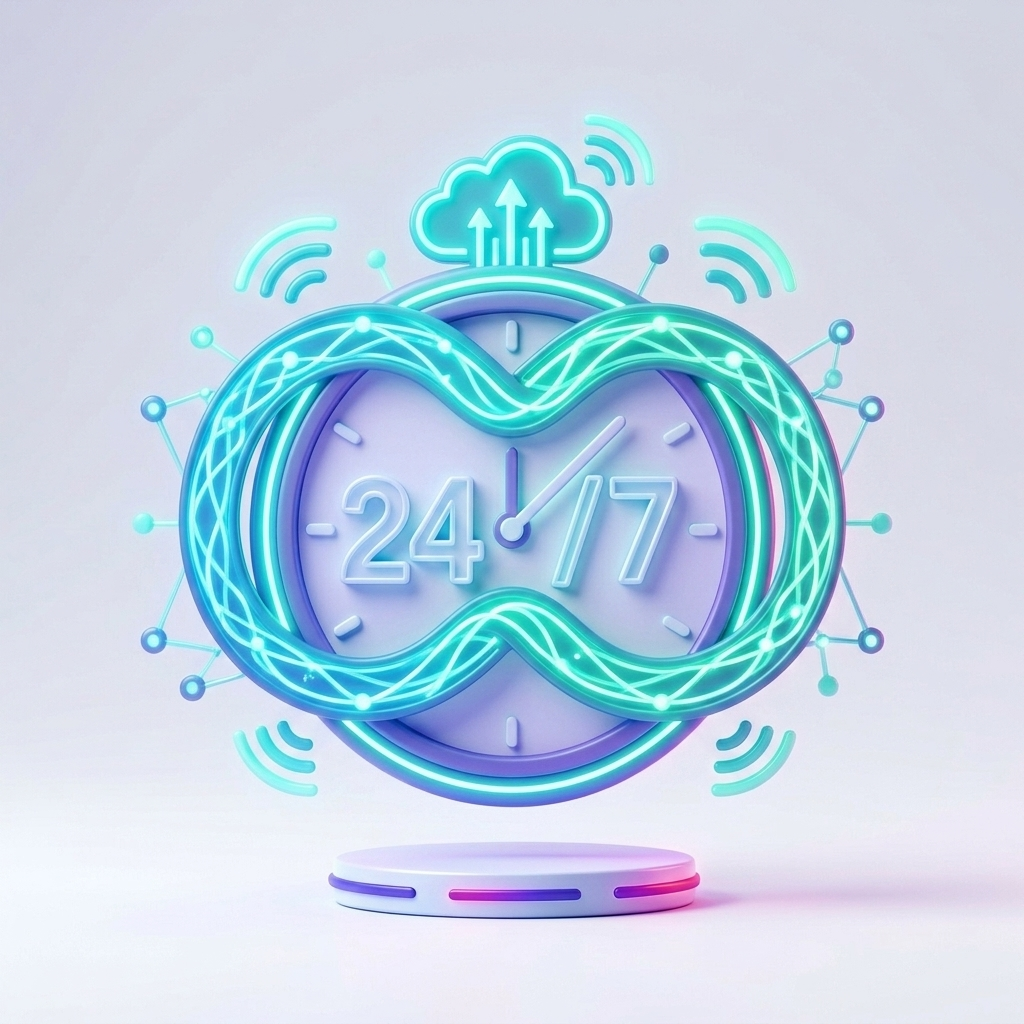
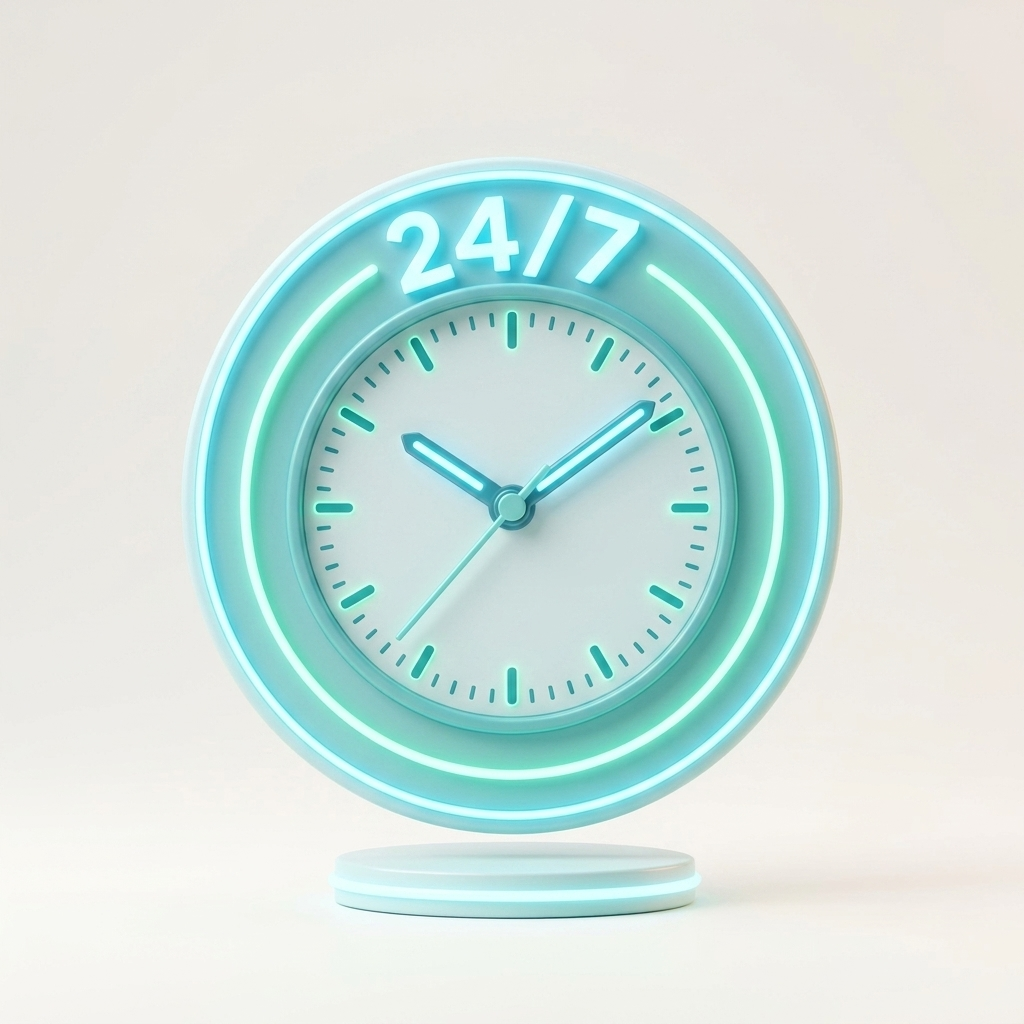
chore: removed unused images

diff --git a/src/components/sections/recharge-bills/WhyChooseCashlo.tsx b/src/components/sections/recharge-bills/WhyChooseCashlo.tsx
@@ -27,7 +27,7 @@ export default function WhyChooseCashlo() {
 
         {/* Tight Staggered Bento Grid */}
         <div className="mt-12 grid grid-cols-1 gap-5 md:grid-cols-3">
-          
+
           {/* Card 1: Secure & Trusted (Top Left - Spans 2 Columns) */}
           <div
             data-reveal
@@ -62,7 +62,7 @@ export default function WhyChooseCashlo() {
               <div className="relative min-h-[220px] w-full overflow-hidden rounded-2xl border border-border/80 bg-surface/60 p-1.5 shadow-inner md:col-span-5 md:min-h-[240px]">
                 <div className="relative h-full min-h-[210px] w-full overflow-hidden rounded-xl bg-card">
                   <Image
-                    src="/illustrations/recharge-bills/secure-trusted-v2.jpg"
+                    src="/illustrations/recharge-bills/secure-trusted.jpg"
                     alt="Secure & Trusted BBPS Transactions"
                     fill
                     sizes="(max-width: 768px) 100vw, 35vw"
@@ -104,7 +104,7 @@ export default function WhyChooseCashlo() {
             <div className="mt-4 relative h-52 w-full overflow-hidden rounded-2xl border border-border/80 bg-surface/60 p-1.5 shadow-inner md:h-56">
               <div className="relative h-full w-full overflow-hidden rounded-xl bg-card">
                 <Image
-                  src="/illustrations/recharge-bills/availability-247-v3.jpg"
+                  src="/illustrations/recharge-bills/availability-247.jpg"
                   alt="24x7 High Availability Clock"
                   fill
                   sizes="(max-width: 768px) 100vw, 30vw"
@@ -142,7 +142,7 @@ export default function WhyChooseCashlo() {
             <div className="mt-4 relative h-52 w-full overflow-hidden rounded-2xl border border-border/80 bg-surface/60 p-1.5 shadow-inner md:h-56">
               <div className="relative h-full w-full overflow-hidden rounded-xl bg-card">
                 <Image
-                  src="/illustrations/recharge-bills/attractive-commission-v2.jpg"
+                  src="/illustrations/recharge-bills/attractive-commission.jpg"
                   alt="Attractive Merchant Commission"
                   fill
                   sizes="(max-width: 768px) 100vw, 30vw"
